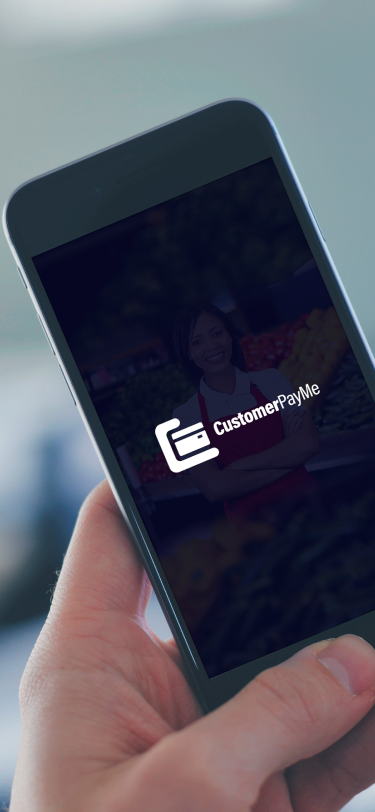
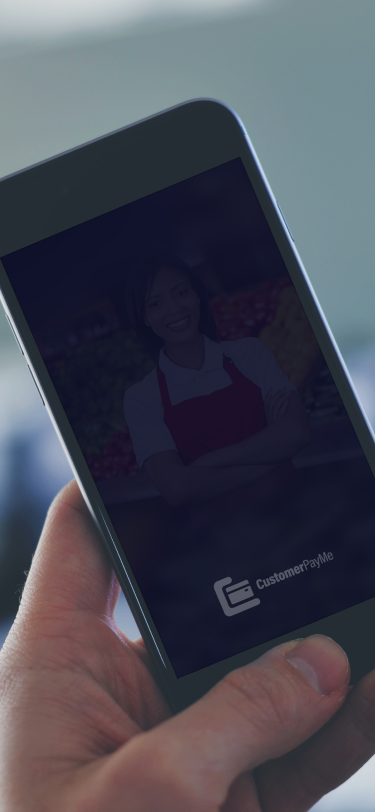
chore: add new flare animation and construct its height

diff --git a/lib/ui/views/startup/startup_view.dart b/lib/ui/views/startup/startup_view.dart
@@ -17,7 +17,7 @@ class StartupView extends StatelessWidget {
               width: SizeConfig.xMargin(context, 100),
               color: Color.fromRGBO(0, 0, 0, 0.8),
               child: Opacity(
-                opacity: 0.6,
+                opacity: 0.3,
                 child: Container(
                   child: Image.asset(
                     'assets/images/startupbackground.png',
@@ -26,7 +26,8 @@ class StartupView extends StatelessWidget {
                 ),
               ),
             ),
-            Center(child: LoadingAnimation())
+            Center(
+                child: LoadingAnimation())
           ],
         ),
       ),

diff --git a/lib/ui/widgets/stateless/loading_animation.dart b/lib/ui/widgets/stateless/loading_animation.dart
@@ -3,16 +3,11 @@ import 'package:flutter/material.dart';
 import 'package:mycustomers/core/constants/animations.dart';
 import 'package:mycustomers/ui/shared/size_config.dart';
 
-// ignore: must_be_immutable
 class LoadingAnimation extends StatelessWidget {
-  double height = 30;
-
-  LoadingAnimation({this.height});
-
   @override
   Widget build(BuildContext context) {
     return Container(
-      height: SizeConfig.yMargin(context, height),
+      height: SizeConfig.yMargin(context, 50),
       child: FlareActor(
         Animations.loader,
         animation: Animations.loader_name,

diff --git a/lib/ui/shared/dialog_loader.dart b/lib/ui/shared/dialog_loader.dart
@@ -31,7 +31,7 @@ Widget buildLoaderDialog(BuildContext context, DialogRequest request) {
               : Container(),
           SizedBox(height: SizeConfig.yMargin(context, 2)),
           Container(
-            height: SizeConfig.yMargin(context, 10),
+            height: SizeConfig.yMargin(context, 40),
             // width: SizeConfig.xMargin(context, 3),
             child: LoadingAnimation(),
           ),

diff --git a/lib/ui/views/business/about_us/about_my_customer_page/about_my_customer_viewmodel.dart b/lib/ui/views/business/about_us/about_my_customer_page/about_my_customer_viewmodel.dart
@@ -218,11 +218,6 @@ class AboutMyCustomerViewModel extends BaseViewModel {
     notifyListeners();
   }
 
-  Future<void> openDoc() async {
-    final result = await OpenFile.open("assets/files/App details.docx");
-    text = result.message;
-  }
-
   void increment() {
     currentAboutCustomerPayMe++;
     currentMeetTheInvestors++;

diff --git a/lib/ui/views/business/about_us/about_my_customer_page/about_my_customer_view.dart b/lib/ui/views/business/about_us/about_my_customer_page/about_my_customer_view.dart
@@ -132,7 +132,6 @@ class _AboutMyCustomerViewState extends State<AboutMyCustomerView>
         ),
       ),
       viewModelBuilder: () => AboutMyCustomerViewModel(),
-      onModelReady: (model) => model.openDoc(),
     );
   }
 }
